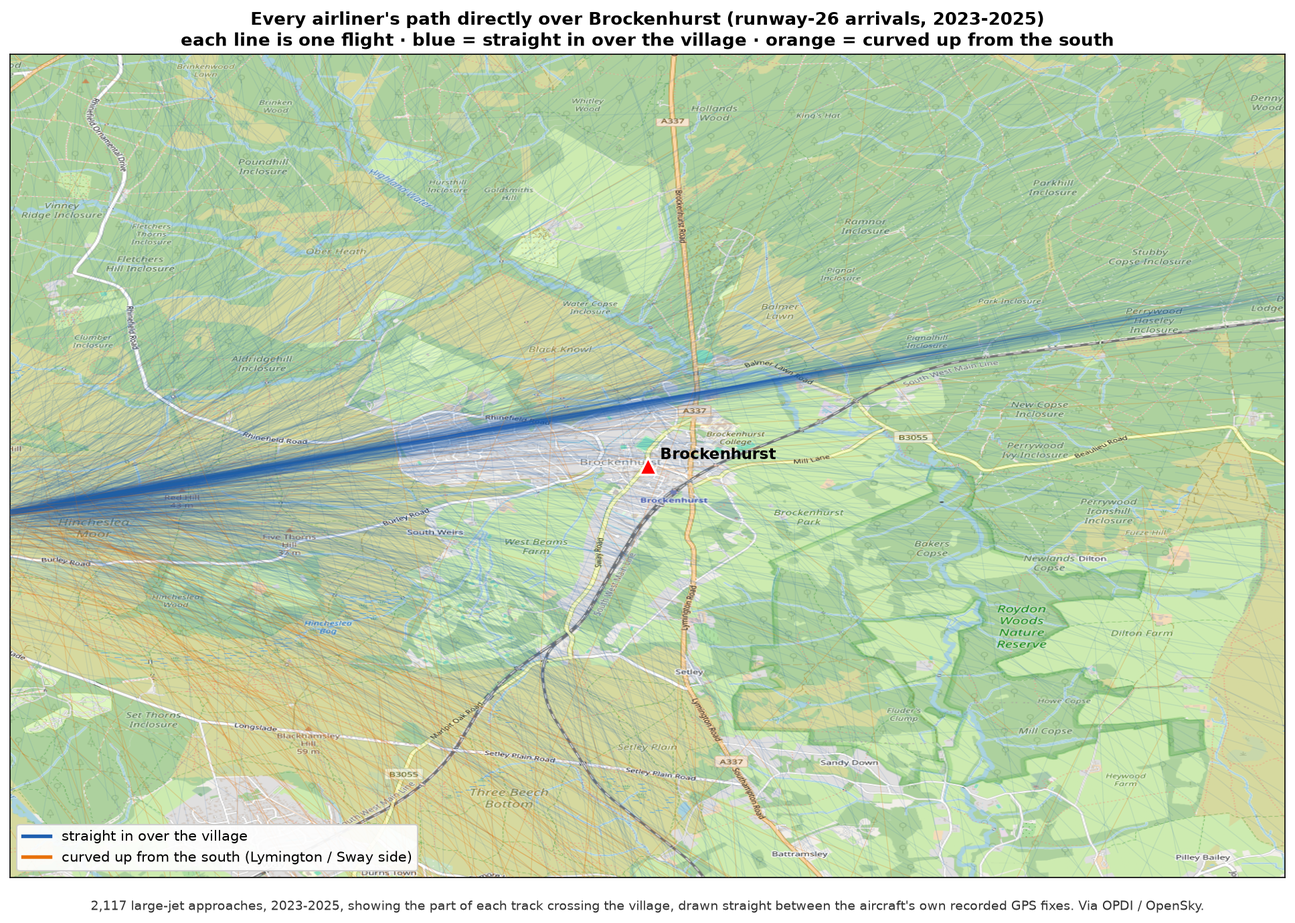
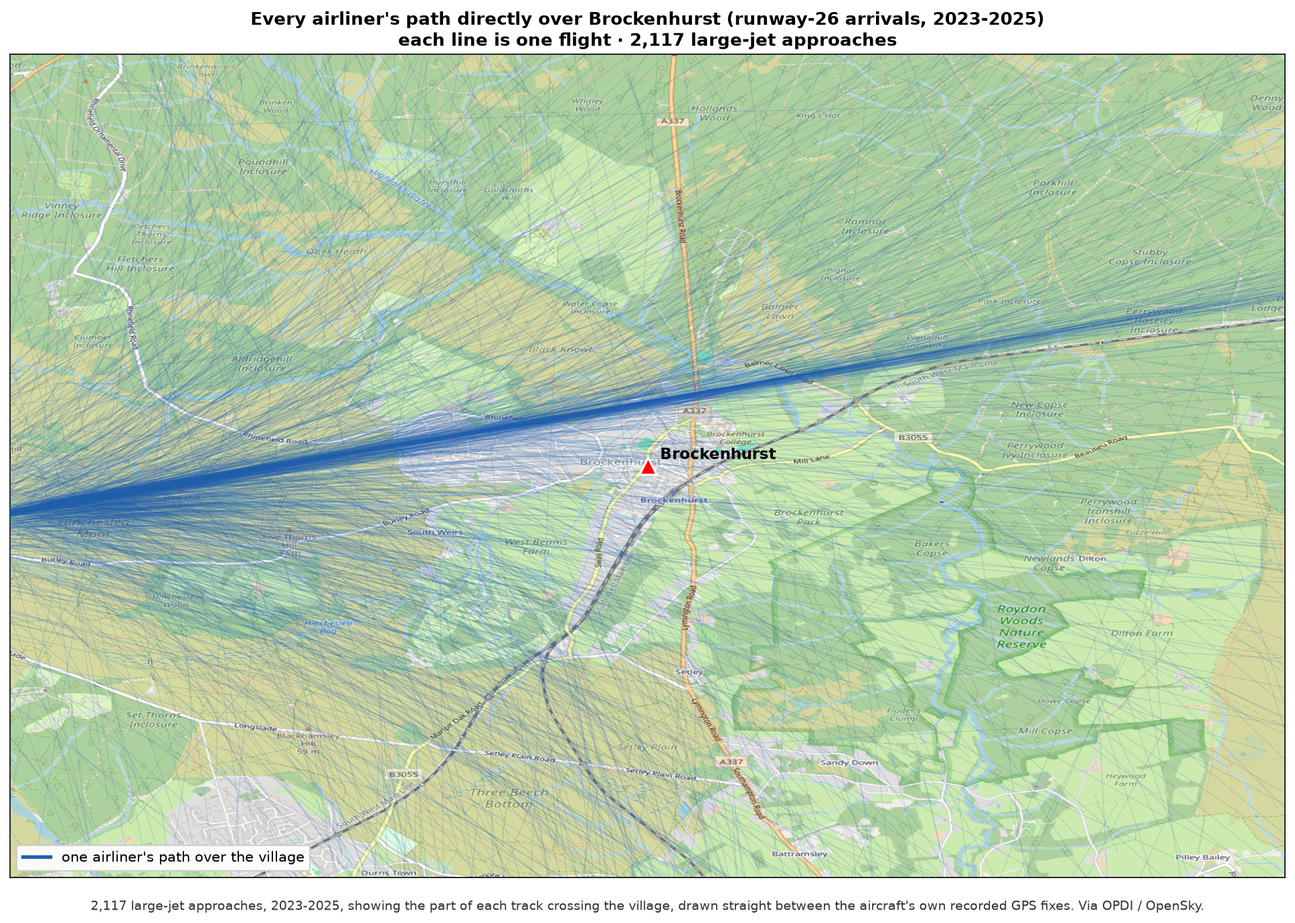
Make village-zoom path map single-colour (all blue) for clarity
Claude-Session: https://claude.ai/code/session_01Wg3RMXhKJQE1Gdum3a4bvr

Changed region(s): [[0.0, 0.3742, 0.7442, 0.9666], [0.124, 0.0312, 0.8682, 0.0624], [0.031, 0.7484, 0.062, 0.7796]]

diff --git a/path_map.py b/path_map.py
@@ -84,7 +84,7 @@ def smooth(x, y):
 
 
 def _draw(ax, a, from_se, box, zoom, lw, alpha_st, alpha_se, smooth_on=True,
-          min_pts=4, clip_margin=None):
+          min_pts=4, clip_margin=None, mono=False):
     lon0, lon1, lat0, lat1 = box
     x0, y0 = merc(lon0, lat0); x1, y1 = merc(lon1, lat1)
     ax.set_xlim(x0, x1); ax.set_ylim(y0, y1)
@@ -103,7 +103,8 @@ def _draw(ax, a, from_se, box, zoom, lw, alpha_st, alpha_se, smooth_on=True,
         n_se += se; n_st += (not se)
         mx, my = merc(g["longitude"].values, g["latitude"].values)
         sx, sy = smooth(mx, my) if smooth_on else (mx, my)
-        ax.plot(sx, sy, color=ORANGE if se else BLUE, lw=lw,
+        col = BLUE if (mono or not se) else ORANGE
+        ax.plot(sx, sy, color=col, lw=lw,
                 alpha=alpha_se if se else alpha_st, zorder=3, solid_capstyle="round")
     bx, by = merc(BLON, BLAT)
     ax.scatter([bx], [by], marker="^", s=150, color="red", edgecolors="white",
@@ -151,15 +152,14 @@ def build_zoom(out="outputs/sweep/brockenhurst_paths_village.png"):
     a, from_se = load()
     box = (BLON - VHL, BLON + VHL, BLAT - VHT, BLAT + VHT)
     fig, ax = plt.subplots(figsize=(13, 9.2))
-    n_st, n_se = _draw(ax, a, from_se, box, 14, 0.7, 0.10, 0.22, smooth_on=False,
-                       min_pts=2, clip_margin=0.02)
+    n_st, n_se = _draw(ax, a, from_se, box, 14, 0.7, 0.16, 0.16, smooth_on=False,
+                       min_pts=2, clip_margin=0.02, mono=True)
     tot = n_se + n_st
     ax.set_title("Every airliner's path directly over Brockenhurst (runway-26 arrivals, 2023-2025)\n"
-                 "each line is one flight · blue = straight in over the village · orange = curved up from the south",
+                 f"each line is one flight · {tot:,} large-jet approaches",
                  fontsize=12.5, fontweight="bold")
     ax.legend(handles=[
-        Line2D([0], [0], color=BLUE, lw=2.6, label="straight in over the village"),
-        Line2D([0], [0], color=ORANGE, lw=2.6, label="curved up from the south (Lymington / Sway side)")],
+        Line2D([0], [0], color=BLUE, lw=2.6, label="one airliner's path over the village")],
         loc="lower left", fontsize=10, framealpha=0.92)
     fig.text(0.5, 0.006,
              f"{tot:,} large-jet approaches, 2023-2025, showing the part of each track crossing the village, "
